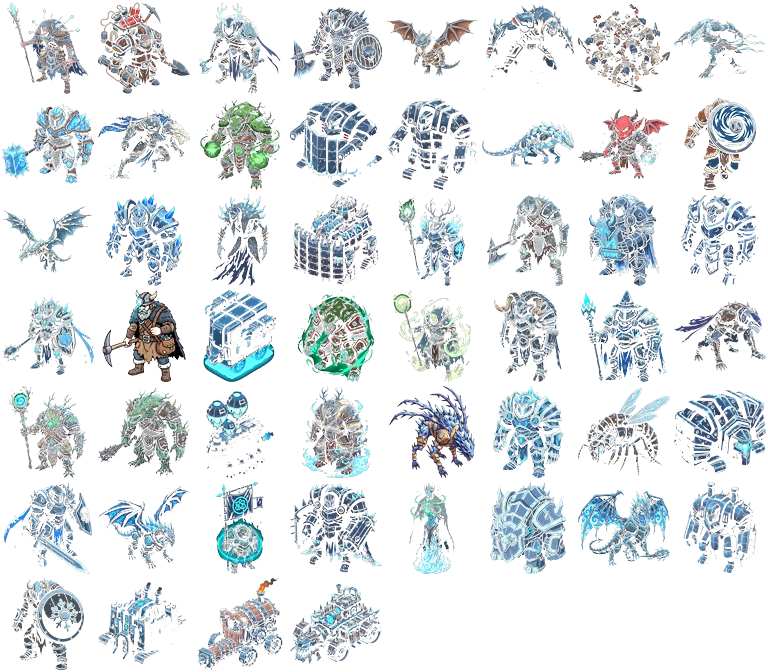
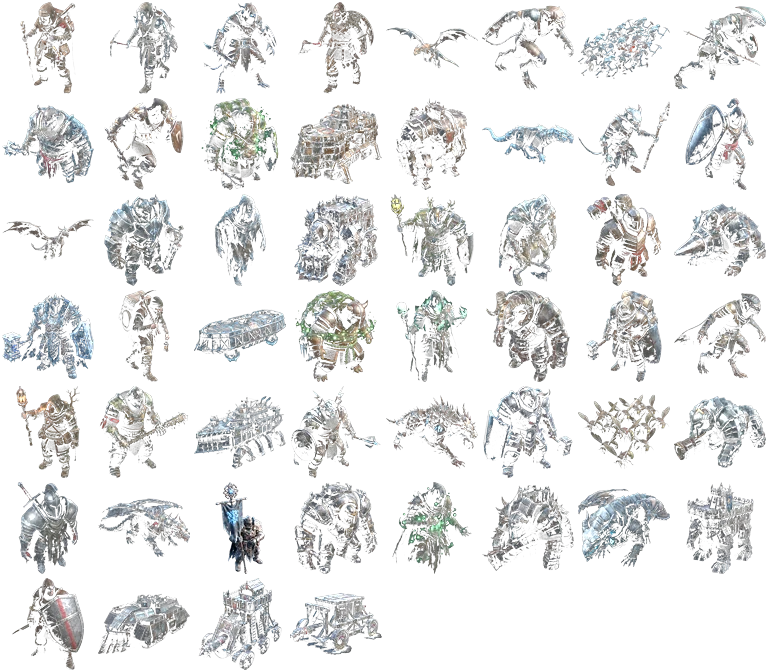
Sculpted art set: 172 sprites, race-tinted plinths
Gene picked the sculpted direction off the four-way comparison, and asked
for premium rather than gimmicky. The whole set is regenerated in that
direction: 68 towers, 52 creeps, 52 second poses.

Generated on gemini-3.1-flash-lite-image. The model the pipeline used,
gemini-2.5-flash-image, is deprecated and shuts down 2 October 2026, so
the model is now a flag (RW_IMAGE_MODEL) across all three generators
rather than a string in three files. 3.1 Flash Lite is also the cheapest
of the three, which is a happy accident rather than the reason.

PACKING: normalise, don't gain. The old flat x1.30 brightness was tuned
against the v1 art, which asked for saturated high-contrast colour and
was uniformly punchy. The sculpted set is deliberately muted and spans
2:1 in luminance -- ice towers measure ~149, dark creeps ~75 -- so one
fixed gain was wrong at both ends at once: it blew the ice towers to
~193 (white mush, form shadow gone, which is the entire point of the
sculpted look) and STILL left Duskrunner at 99 and invisible on a night
board. Each sprite is now measured and lifted toward a target instead,
so legibility is solved per sprite rather than on average. Saturation
drops from 1.12 to 1.06: a global colour boost argues with the "muted,
one restrained accent" brief that makes the set look expensive.

THE PLINTH CARRIES THE RACE NOW. The premium look cost something real
that the hero renders hid: at the 19px towers actually draw at, the old
[…]

diff --git a/index.html b/index.html
@@ -6166,6 +6166,32 @@ const RW_ELEMENT = {
 /* Plinth slabs per tier: [width, height] in cell units (cell = 20u), bottom first. */
 const RW_SLABS = [[], [[10, 2]], [[13, 2.4]], [[14, 2], [10, 2]], [[16, 2.2], [12, 2.2]], [[18, 2], [14, 2], [10, 2]]];
 const RW_SLAB_COL = ['#9aa7c2', '#b6c1d6', '#c9d3e6'];   // bottom -> top; light hits the top step
+/* THE PLINTH CARRIES THE RACE, NOT THE TOWER. The sculpted art Gene picked is
+   deliberately "muted, desaturated, one restrained accent", which is what makes
+   it read as premium rather than free-to-play — but it also drained the board of
+   race colour. The old art was loud enough to identify a race at 19px from hue
+   alone (cyan Ice, yellow Tech, violet Gravity); the sculpted set is greys and
+   pale steels, so eleven races became one. Tinting the sprite back would undo
+   exactly the thing that made it look expensive. So identity moves down onto the
+   step the tower stands on: the tower stays muted, the plinth says which race it
+   is. Mixed in JS rather than color-mix() — a browser that does not support
+   color-mix drops the WHOLE declaration silently, and this one paints the board.
+   Memoised because it is called for every tower every frame. */
+const RW_SLAB_TINT = .42;
+const rwSlabCache = new Map();
+function rwMixHex(a, b, t) {
+  const pa = parseInt(a.slice(1), 16), pb = parseInt(b.slice(1), 16);
+  const m = (sh) => Math.round((((pa >> sh) & 255) * (1 - t)) + (((pb >> sh) & 255) * t));
+  return 'rgb(' + m(16) + ',' + m(8) + ',' + m(0) + ')';
+}
+function rwSlabCols(hex) {
+  let c = rwSlabCache.get(hex);
+  if (!c) {
+    c = RW_SLAB_COL.map((base, i) => rwMixHex(base, hex, RW_SLAB_TINT * (i === 2 ? .72 : 1)));
+    rwSlabCache.set(hex, c);
+  }
+  return c;
+}
 /* ---------------- TOWER SILHOUETTES ----------------
    Gene: "we need to improve everything including the towers themselves they are
    way too basic and boring."
@@ -6596,7 +6622,7 @@ function drawTowerStructure(ctx, tower, stats, building, laneColor) {
   let bottom = 8;
   slabs.forEach(([w, h], i) => {
     bottom -= h;
-    ctx.fillStyle = RW_SLAB_COL[Math.min(2, i + (3 - slabs.length))]; ctx.fillRect(-w / 2, bottom, w, h);
+    ctx.fillStyle = rwSlabCols(hex)[Math.min(2, i + (3 - slabs.length))]; ctx.fillRect(-w / 2, bottom, w, h);
     if (tier === 5 && i === slabs.length - 1) { ctx.fillStyle = '#fff'; ctx.fillRect(-w / 2, bottom, w, .8); }
   });
   /* CENTRED ON THE CELL. Gene: "the towers re not centered on cells".
